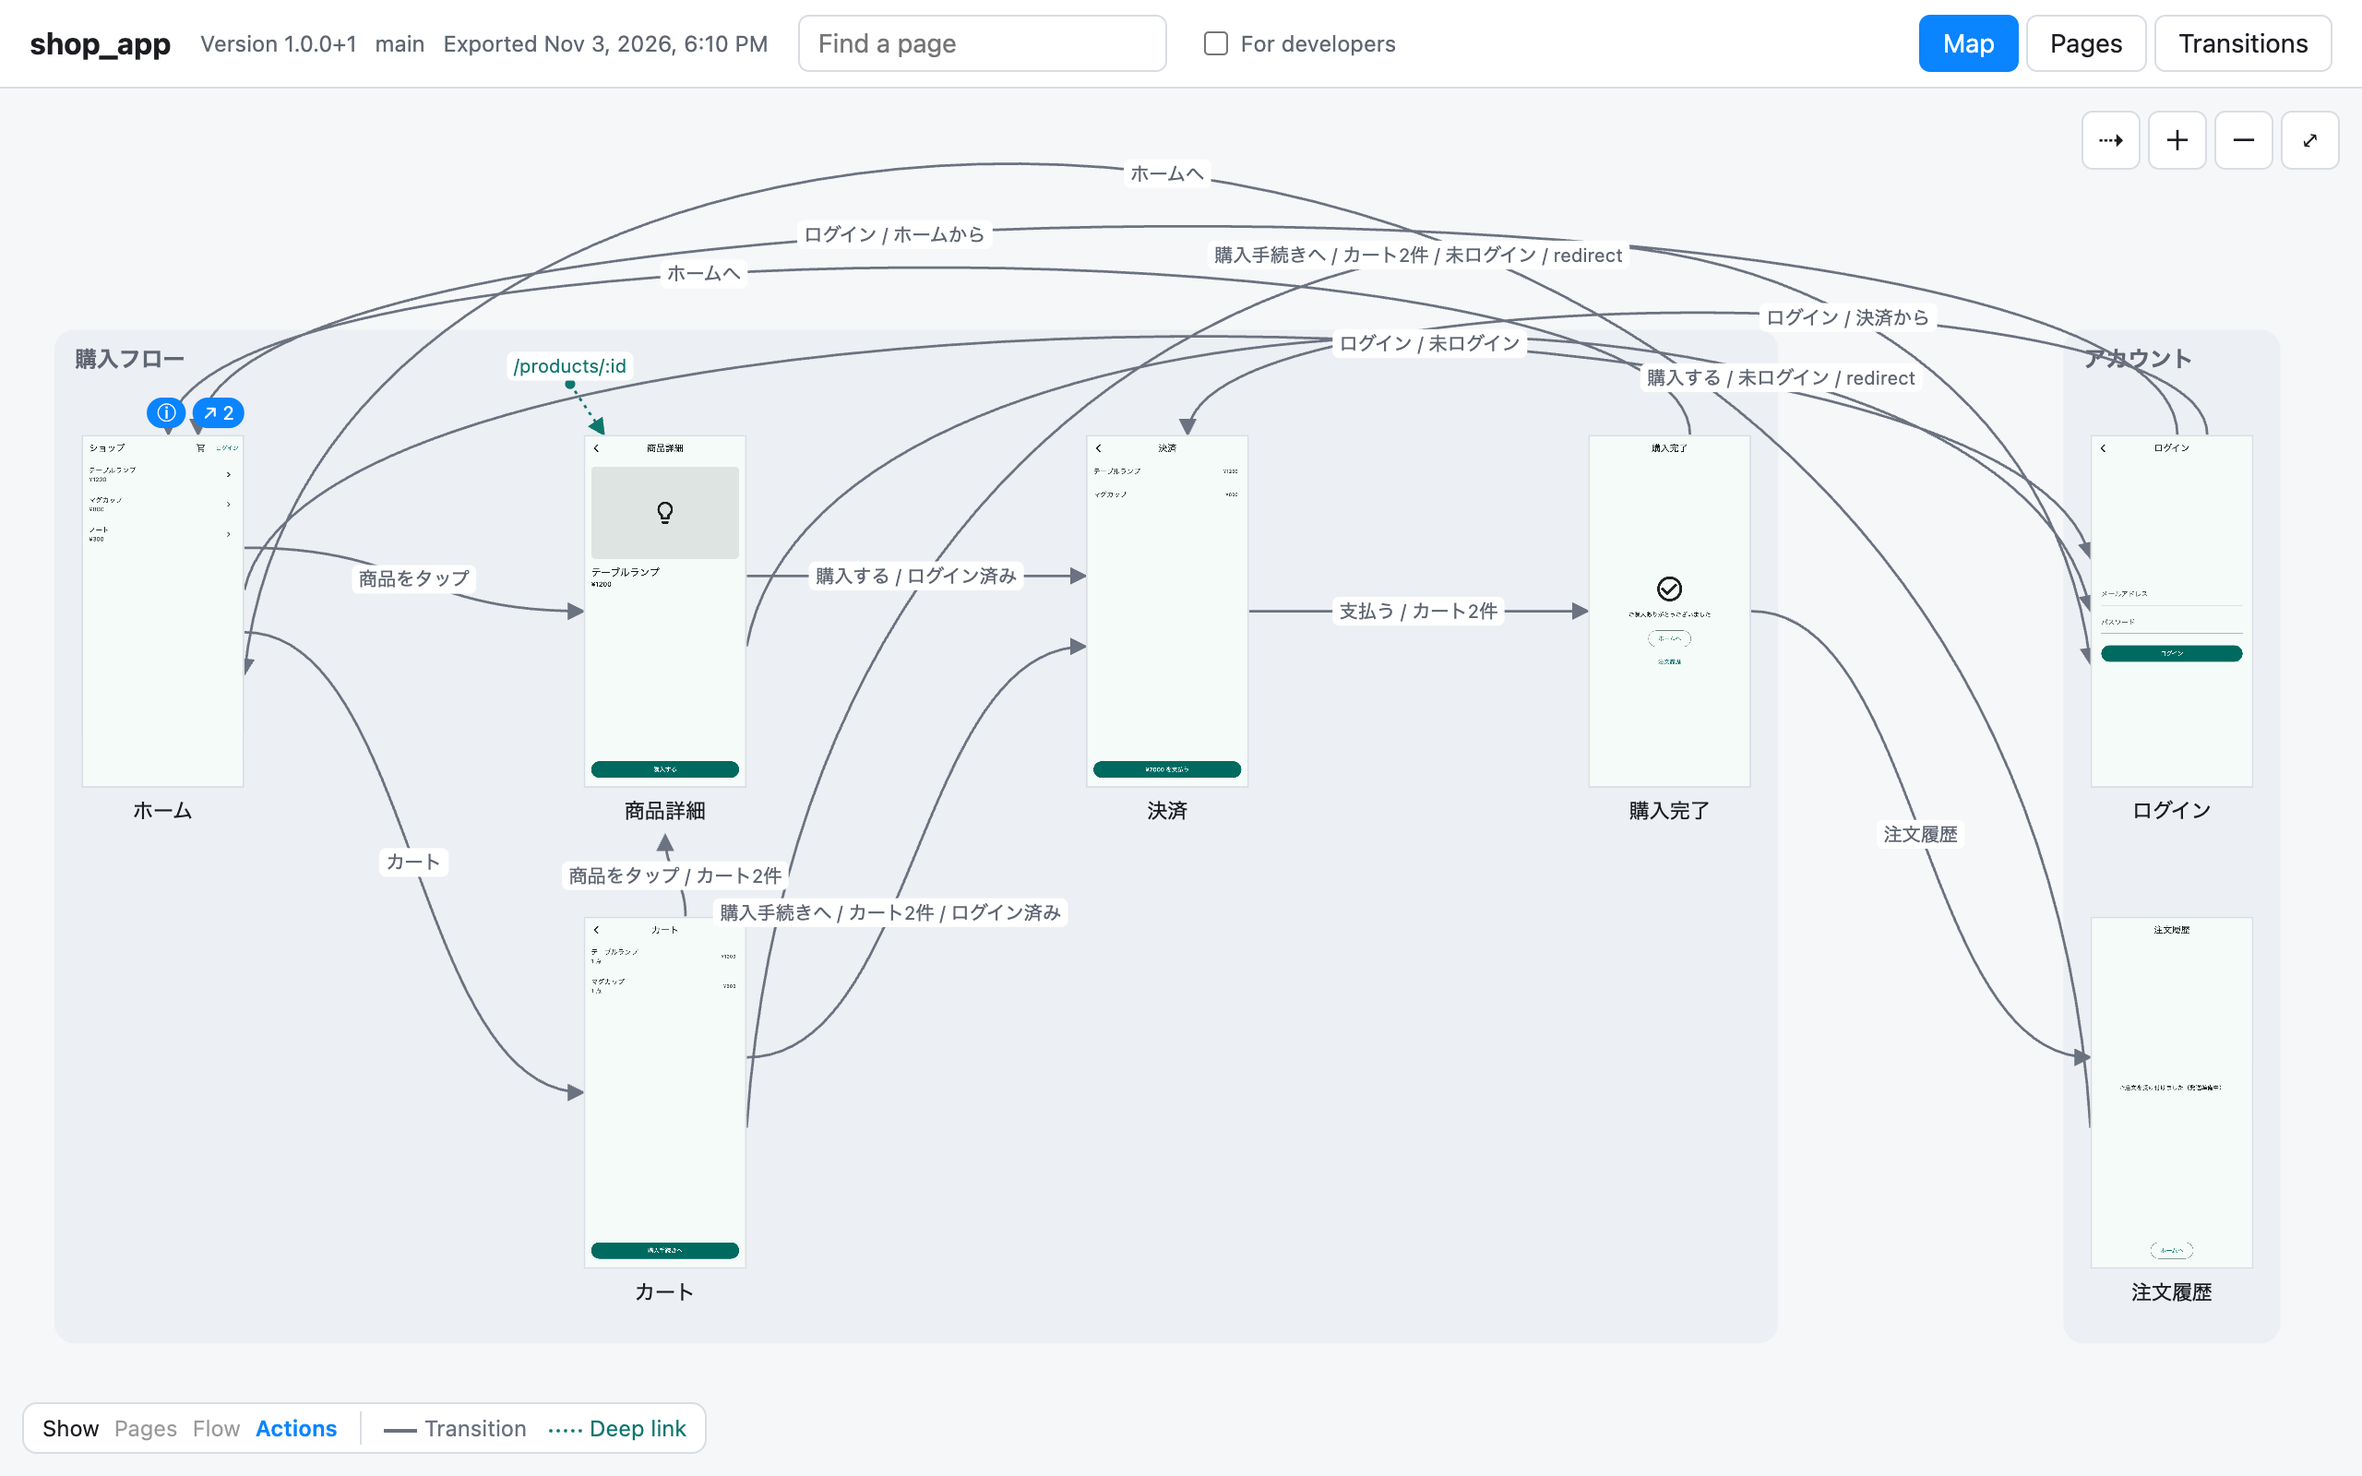
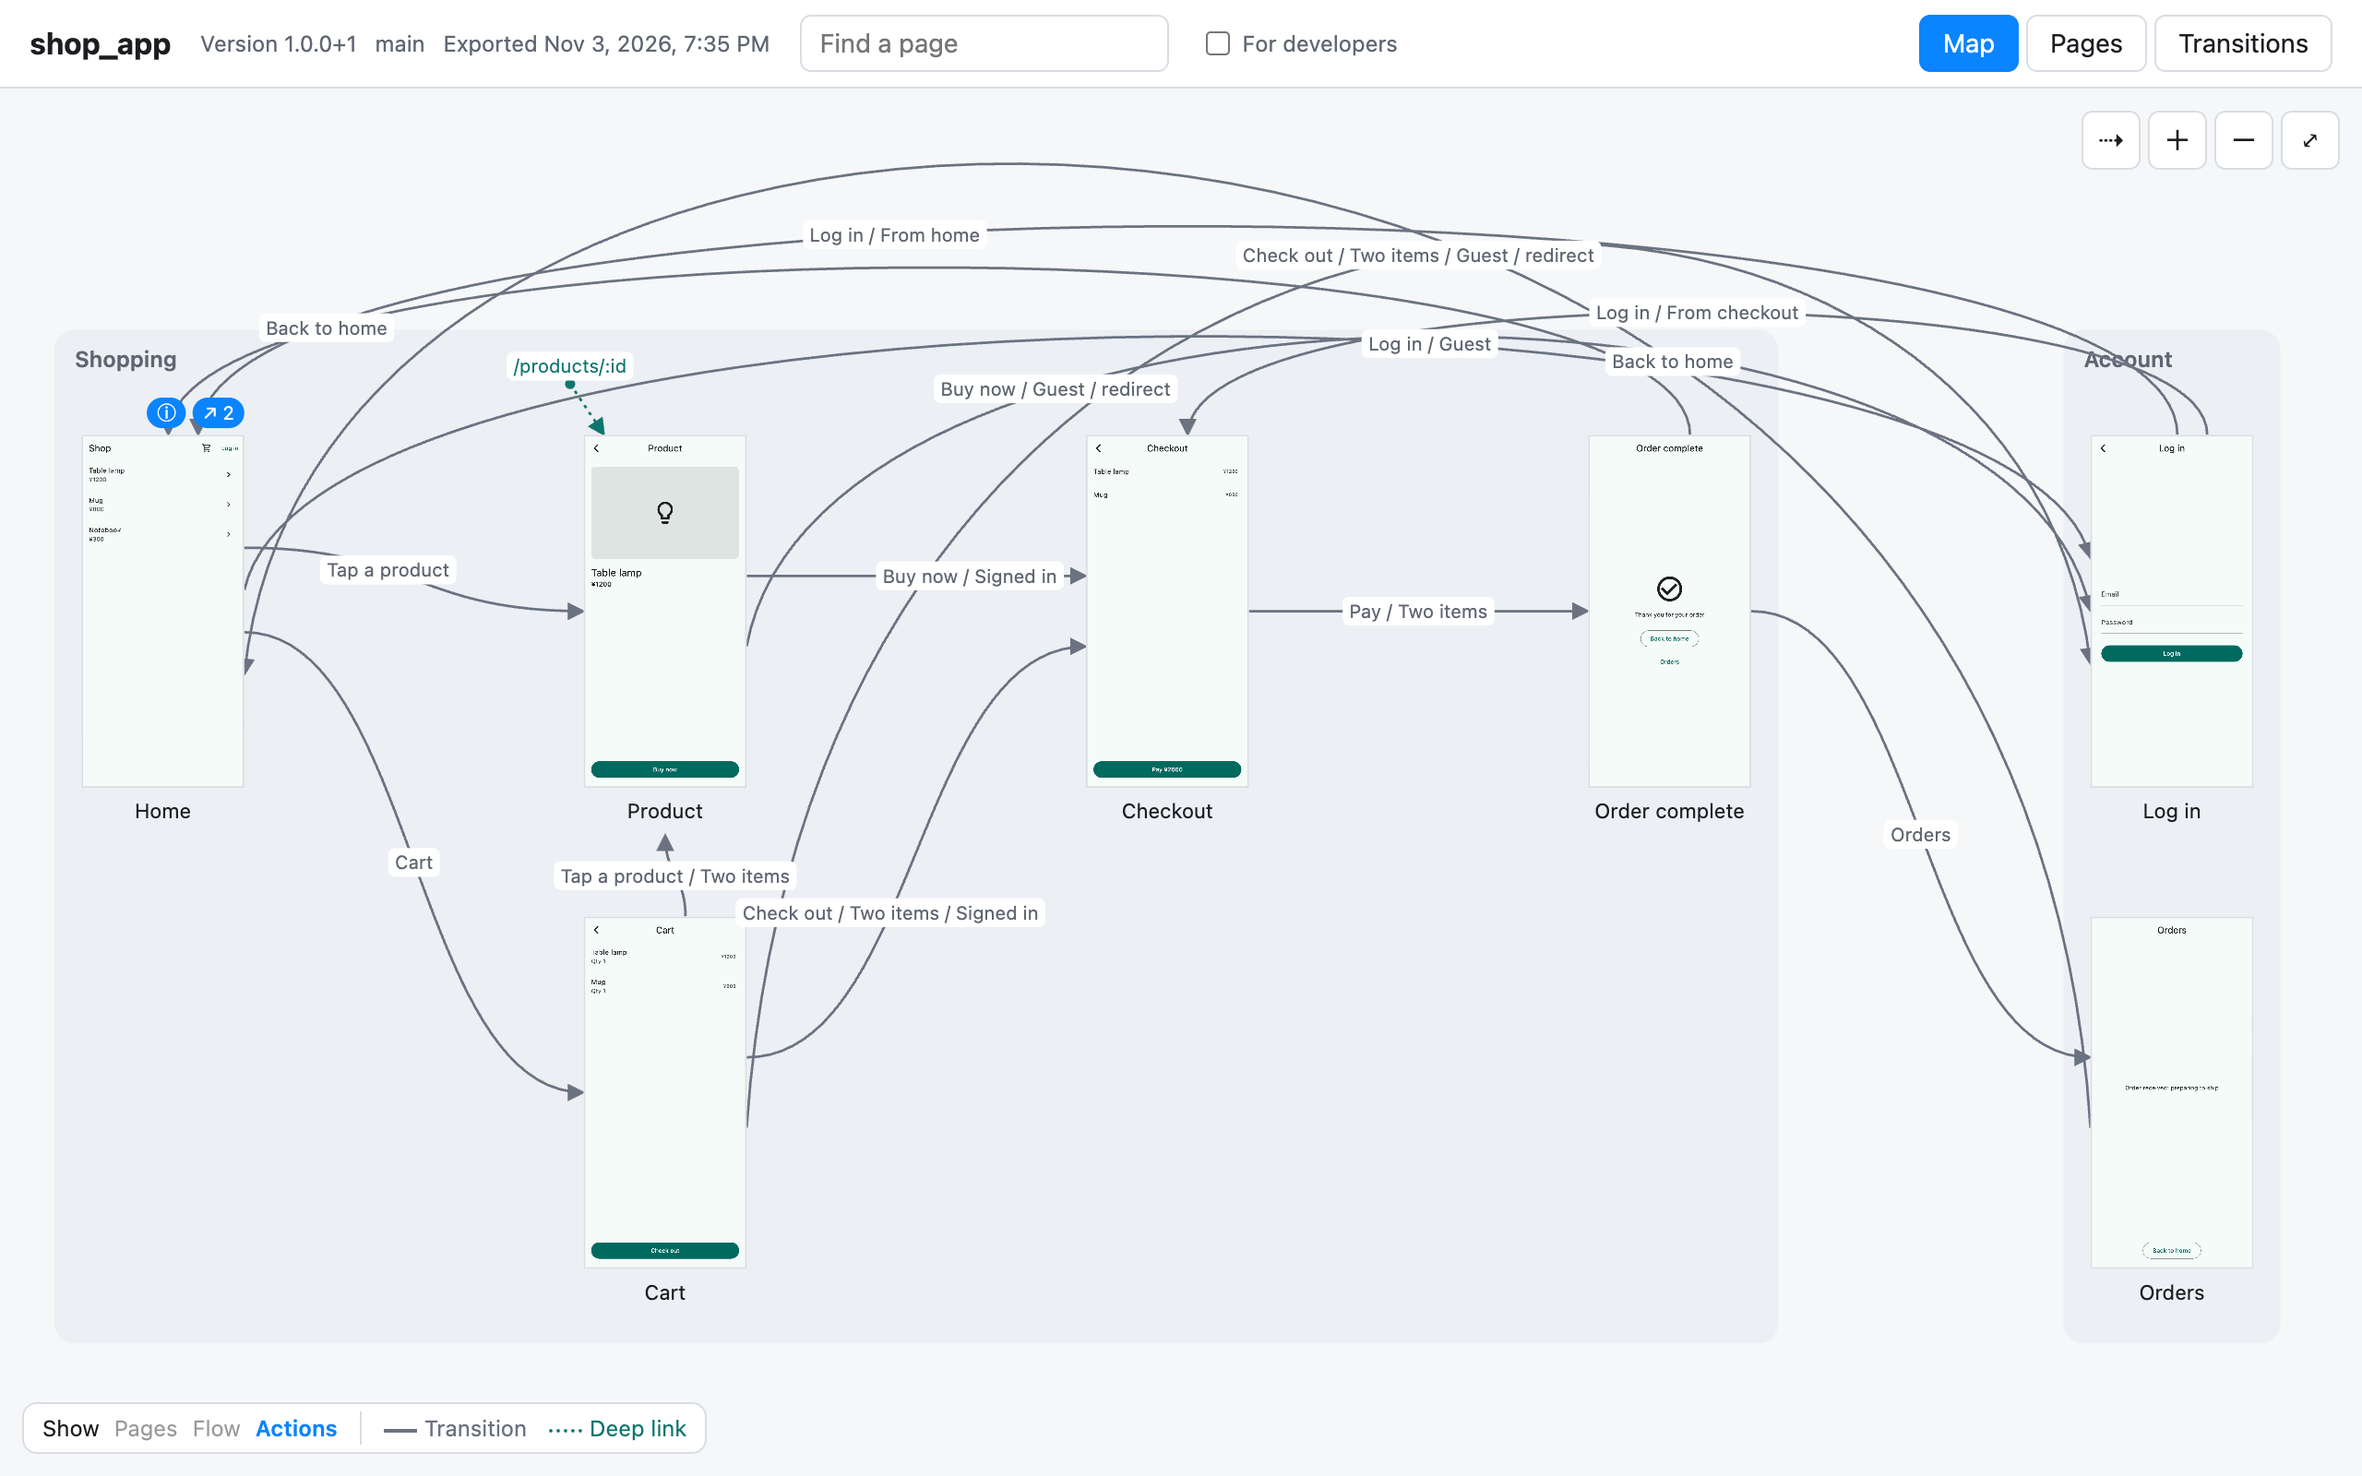
shop_app in English, and the README's map shot from it
shop_app's screens, its sheet package's previews and fakes, and its sheet (pages, sections, states, conditions, triggers, memo) are in English, so the map pub.dev's readers see is in their words: "When Guest, tap “Log in” → Log in (From home)", as the README says, is one of its sentences. example/README.md names its conditions as the sheet does. doc/images/map.png is shot again from it.

diff --git a/example/shop_app/lib/features/login_page.dart b/example/shop_app/lib/features/login_page.dart
@@ -28,20 +28,18 @@ class _LoginPageState extends ConsumerState<LoginPage> {
   @override
   Widget build(BuildContext context) {
     return Scaffold(
-      appBar: AppBar(title: const Text('ログイン')),
+      appBar: AppBar(title: const Text('Log in')),
       body: Center(
         child: Padding(
           padding: const EdgeInsets.all(24),
           child: Column(
             mainAxisSize: MainAxisSize.min,
             children: [
-              const TextField(
-                decoration: InputDecoration(labelText: 'メールアドレス'),
-              ),
+              const TextField(decoration: InputDecoration(labelText: 'Email')),
               const SizedBox(height: 12),
               const TextField(
                 obscureText: true,
-                decoration: InputDecoration(labelText: 'パスワード'),
+                decoration: InputDecoration(labelText: 'Password'),
               ),
               const SizedBox(height: 24),
               SizedBox(
@@ -55,7 +53,7 @@ class _LoginPageState extends ConsumerState<LoginPage> {
                           height: 18,
                           child: CircularProgressIndicator(strokeWidth: 2),
                         )
-                      : const Text('ログイン'),
+                      : const Text('Log in'),
                 ),
               ),
             ],

diff --git a/example/shop_app/lib/features/cart_page.dart b/example/shop_app/lib/features/cart_page.dart
@@ -20,12 +20,12 @@ class CartPage extends ConsumerWidget {
 
   Widget _cart(BuildContext context, CartRepository cart) {
     return Scaffold(
-      appBar: AppBar(title: const Text('カート')),
+      appBar: AppBar(title: const Text('Cart')),
       body: Column(
         children: [
           Expanded(
             child: cart.items.isEmpty
-                ? const Center(child: Text('カートは空です'))
+                ? const Center(child: Text('Your cart is empty'))
                 : ListView(
                     children: [
                       for (final item in cart.items) CartItemTile(item: item),
@@ -40,7 +40,7 @@ class CartPage extends ConsumerWidget {
                 onPressed: cart.items.isEmpty
                     ? null
                     : () => context.push('/checkout'),
-                child: const Text('購入手続きへ'),
+                child: const Text('Check out'),
               ),
             ),
           ),
@@ -59,7 +59,7 @@ class CartItemTile extends StatelessWidget {
   @override
   Widget build(BuildContext context) => ListTile(
     title: Text(item.product.name),
-    subtitle: Text('${item.quantity} 点'),
+    subtitle: Text('Qty ${item.quantity}'),
     trailing: Text('¥${item.product.price * item.quantity}'),
     onTap: () => context.push('/products/${item.product.id}'),
   );

diff --git a/example/shop_app/lib/features/home_page.dart b/example/shop_app/lib/features/home_page.dart
@@ -26,22 +26,22 @@ class HomePage extends ConsumerWidget {
   ) {
     return Scaffold(
       appBar: AppBar(
-        title: const Text('ショップ'),
+        title: const Text('Shop'),
         actions: [
           IconButton(
-            tooltip: 'カート',
+            tooltip: 'Cart',
             icon: const Icon(Icons.shopping_cart_outlined),
             onPressed: () => context.push('/cart'),
           ),
           if (auth.isLoggedIn)
             Padding(
               padding: const EdgeInsets.only(right: 16),
-              child: Center(child: Text('${auth.userName} さん')),
+              child: Center(child: Text('Hi, ${auth.userName}')),
             )
           else
             TextButton(
               onPressed: () => context.push('/login'),
-              child: const Text('ログイン'),
+              child: const Text('Log in'),
             ),
         ],
       ),
@@ -58,7 +58,7 @@ class HomePage extends ConsumerWidget {
               ),
           ],
         ),
-        error: (e, _) => Center(child: Text('読み込めませんでした: $e')),
+        error: (e, _) => Center(child: Text('Could not load: $e')),
         loading: () => const Center(child: CircularProgressIndicator()),
       ),
     );

diff --git a/example/shop_app/lib/features/complete_page.dart b/example/shop_app/lib/features/complete_page.dart
@@ -7,26 +7,26 @@ class CompletePage extends StatelessWidget {
   @override
   Widget build(BuildContext context) {
     return Scaffold(
-      appBar: AppBar(title: const Text('購入完了')),
+      appBar: AppBar(title: const Text('Order complete')),
       body: Center(
         child: Column(
           mainAxisSize: MainAxisSize.min,
           children: [
             const Icon(Icons.check_circle_outline, size: 72),
             const SizedBox(height: 16),
-            const Text('ご購入ありがとうございました'),
+            const Text('Thank you for your order'),
             const SizedBox(height: 24),
             OutlinedButton(
               key: const ValueKey('home'),
               onPressed: () => context.go('/'),
-              child: const Text('ホームへ'),
+              child: const Text('Back to home'),
             ),
             const SizedBox(height: 8),
             // This page is not kept under the history: back from there
             // does not come here again.
             TextButton(
               onPressed: () => context.pushReplacement('/orders'),
-              child: const Text('注文履歴'),
+              child: const Text('Orders'),
             ),
           ],
         ),

diff --git a/example/shop_app/lib/features/product_detail_page.dart b/example/shop_app/lib/features/product_detail_page.dart
@@ -13,7 +13,7 @@ class ProductDetailPage extends ConsumerWidget {
   @override
   Widget build(BuildContext context, WidgetRef ref) {
     final product = ref.watch(productProvider(productId));
-    final appBar = AppBar(title: const Text('商品詳細'));
+    final appBar = AppBar(title: const Text('Product'));
     return product.when(
       // The details scroll, the buy button stays at the bottom: it fits a
       // phone held either way, a tablet and a desktop window.
@@ -61,13 +61,13 @@ class ProductDetailPage extends ConsumerWidget {
               ref.read(cartRepositoryProvider).add(p);
               context.push('/checkout');
             },
-            child: const Text('購入する'),
+            child: const Text('Buy now'),
           ),
         ),
       ),
       error: (e, _) => Scaffold(
         appBar: appBar,
-        body: Center(child: Text('読み込めませんでした: $e')),
+        body: Center(child: Text('Could not load: $e')),
       ),
       loading: () => Scaffold(
         appBar: appBar,

diff --git a/example/shop_app/contact_sheet/lib/preview/login.dart b/example/shop_app/contact_sheet/lib/preview/login.dart
@@ -8,10 +8,20 @@ import 'package:shop_app_sheet/preview/start.dart';
 // the page. The preview returns the app's own router started at the page,
 // so the page shows as the app shows it there, over the page under it.
 
-@Preview(group: 'ログイン', name: '決済から', size: Size(390, 844), wrapper: guest)
+@Preview(
+  group: 'Log in',
+  name: 'From checkout',
+  size: Size(390, 844),
+  wrapper: guest,
+)
 // A guest's push of /checkout from the product detail is redirected here.
 Widget login() => startAt('/login?from=/checkout', from: '/products/p1');
 
-@Preview(group: 'ログイン', name: 'ホームから', size: Size(390, 844), wrapper: guest)
-// The home's ログイン button pushes /login, with no `from`.
+@Preview(
+  group: 'Log in',
+  name: 'From home',
+  size: Size(390, 844),
+  wrapper: guest,
+)
+// The home's Log in button pushes /login, with no `from`.
 Widget loginFromHome() => startAt('/login', from: '/');

diff --git a/example/shop_app/lib/features/checkout_page.dart b/example/shop_app/lib/features/checkout_page.dart
@@ -15,12 +15,12 @@ class CheckoutPage extends ConsumerWidget {
       (sum, item) => sum + item.product.price * item.quantity,
     );
     return Scaffold(
-      appBar: AppBar(title: const Text('決済')),
+      appBar: AppBar(title: const Text('Checkout')),
       body: Column(
         children: [
           Expanded(
             child: cart.items.isEmpty
-                ? const Center(child: Text('カートは空です'))
+                ? const Center(child: Text('Your cart is empty'))
                 : ListView(
                     children: [
                       for (final item in cart.items)
@@ -43,7 +43,7 @@ class CheckoutPage extends ConsumerWidget {
                         cart.clear();
                         context.go('/complete');
                       },
-                child: Text('¥$total を支払う'),
+                child: Text('Pay ¥$total'),
               ),
             ),
           ),

diff --git a/example/shop_app/lib/features/orders_page.dart b/example/shop_app/lib/features/orders_page.dart
@@ -7,16 +7,18 @@ class OrdersPage extends StatelessWidget {
   @override
   Widget build(BuildContext context) {
     return Scaffold(
-      appBar: AppBar(title: const Text('注文履歴')),
+      appBar: AppBar(title: const Text('Orders')),
       body: Column(
         children: [
-          const Expanded(child: Center(child: Text('ご注文を受け付けました（発送準備中）'))),
+          const Expanded(
+            child: Center(child: Text('Order received: preparing to ship')),
+          ),
           Padding(
             padding: const EdgeInsets.all(16),
             child: OutlinedButton(
               key: const ValueKey('home'),
               onPressed: () => context.go('/'),
-              child: const Text('ホームへ'),
+              child: const Text('Back to home'),
             ),
           ),
         ],

diff --git a/example/shop_app/contact_sheet/lib/preview/checkout.dart b/example/shop_app/contact_sheet/lib/preview/checkout.dart
@@ -9,11 +9,16 @@ import 'package:shop_app_sheet/preview/start.dart';
 // so the page shows as the app shows it there, over the page under it.
 
 @Preview(
-  group: '決済',
-  name: 'カート2件',
+  group: 'Checkout',
+  name: 'Two items',
   size: Size(390, 844),
   wrapper: loggedInCart2,
 )
-@Preview(group: '決済', name: '空のカート', size: Size(390, 844), wrapper: loggedIn)
+@Preview(
+  group: 'Checkout',
+  name: 'Empty',
+  size: Size(390, 844),
+  wrapper: loggedIn,
+)
 // product_detail_page.dart pushes it from the product detail.
 Widget checkout() => startAt('/checkout', from: '/products/p1');

diff --git a/example/shop_app/contact_sheet/lib/preview/home.dart b/example/shop_app/contact_sheet/lib/preview/home.dart
@@ -8,6 +8,11 @@ import 'package:shop_app_sheet/preview/start.dart';
 // the page. The preview returns the app's own router started at the page,
 // so the page shows as the app shows it there, over the page under it.
 
-@Preview(group: 'ホーム', name: '未ログイン', size: Size(390, 844), wrapper: guest)
-@Preview(group: 'ホーム', name: 'ログイン済み', size: Size(390, 844), wrapper: loggedIn)
+@Preview(group: 'Home', name: 'Guest', size: Size(390, 844), wrapper: guest)
+@Preview(
+  group: 'Home',
+  name: 'Signed in',
+  size: Size(390, 844),
+  wrapper: loggedIn,
+)
 Widget home() => startAt('/');

diff --git a/example/shop_app/contact_sheet/lib/preview/cart.dart b/example/shop_app/contact_sheet/lib/preview/cart.dart
@@ -9,11 +9,11 @@ import 'package:shop_app_sheet/preview/start.dart';
 // so the page shows as the app shows it there, over the page under it.
 
 @Preview(
-  group: 'カート',
-  name: 'カート2件',
+  group: 'Cart',
+  name: 'Two items',
   size: Size(390, 844),
   wrapper: loggedInCart2,
 )
-@Preview(group: 'カート', name: '空のカート', size: Size(390, 844), wrapper: loggedIn)
+@Preview(group: 'Cart', name: 'Empty', size: Size(390, 844), wrapper: loggedIn)
 // home_page.dart pushes it from the app bar's cart button.
 Widget cart() => startAt('/cart', from: '/');

diff --git a/example/shop_app/lib/data/product_repository.dart b/example/shop_app/lib/data/product_repository.dart
@@ -10,9 +10,9 @@ abstract class ProductRepository {
 /// The app's own implementation. A real app would call its backend here.
 class ApiProductRepository implements ProductRepository {
   static const _catalog = [
-    Product(id: 'p1', name: 'テーブルランプ', price: 1200),
-    Product(id: 'p2', name: 'マグカップ', price: 800),
-    Product(id: 'p3', name: 'ノート', price: 300),
+    Product(id: 'p1', name: 'Table lamp', price: 1200),
+    Product(id: 'p2', name: 'Mug', price: 800),
+    Product(id: 'p3', name: 'Notebook', price: 300),
   ];
 
   @override
